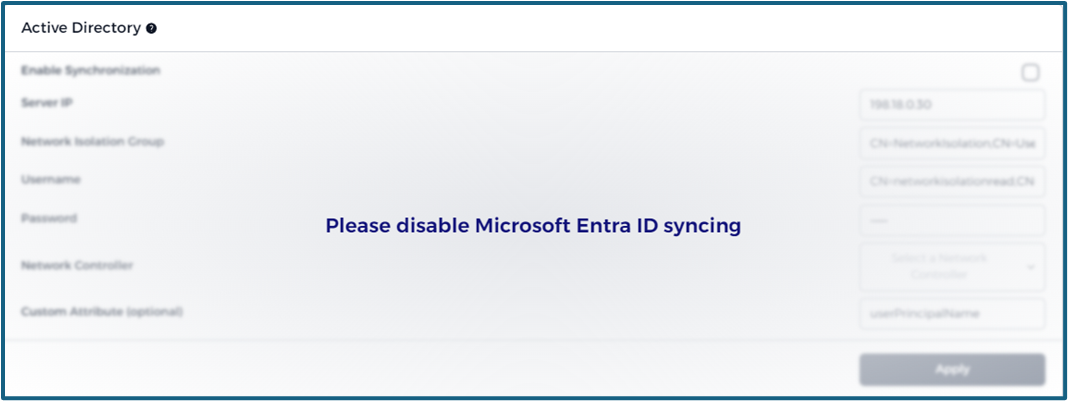
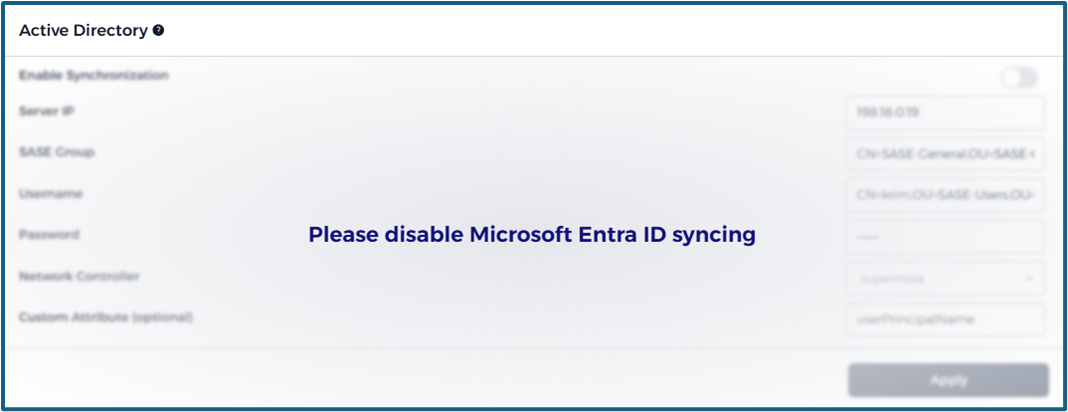
Thursday, the 24th of June 2025

diff --git a/company/users/users.md b/company/users/users.md
@@ -6,7 +6,7 @@ A user refers to an individual account within the platform. Users can have roles
 > Managing users efficiently is crucial for maintaining the security and integrity of your platform. 
 
 
-### Create Users
+### Create User
 To create a new User into the platform, click on the `+ Create new` button located at the upper right corner of the interface.
 
 > [!WARNING]
@@ -62,7 +62,7 @@ To create a new Security Consultant into the platform, follow the steps below. T
 
 ### Filter Users
 
-You can search the list of Users using the search box at the top of the page. This helps you quickly find and manage the user you're looking for.
+You can search the list of users using the search box at the top of the page. This helps you quickly find and manage the user you're looking for.
 
 - Use the search box to enter keywords and filter the user list.
 
@@ -71,6 +71,9 @@ Next to the search box, there is a filter icon ![](../../images/icons/icon_filte
 - **Property**: A dropdown menu where you choose the field to filter on.
 - **Match type**: A dropdown that allows you to select how to match the value (e.g. `equals`, `contains`, etc.).
 - **Value**: Enter or select the value to match, depending on the selected property.
+
+
+![filter_user.png](./screenshots/filter_user.png ':size=300')
 
 You can press the `+` button to add multiple filters.
 
@@ -88,15 +91,15 @@ In the user overview, several key properties are immediately visible: the user's
 
  ![overview_users.png](./screenshots/overview_users.png ':size=800')
 
- Clicking on the corresponding row of a user opens a detailed view with additional information.  
+ Clicking on the corresponding strip of a user opens a detailed view with additional information.  
 
-> [!INFO] 
-> Avoid using the action buttons at the end of the row (e.g. edit or delete).
+<!-- > [!INFO] 
+> Avoid using the action buttons at the end of the row (e.g. edit or delete). -->
 
 
 ![properties_user.png](./screenshots/properties_user.png ':size=500')
 
-### Edit Users
+### Edit User
   
  Users can be edited by clicking on the edit icon ![](../../images/icons/icon_edit.png ':size=20') in their row.
  
@@ -105,7 +108,7 @@ In the user overview, several key properties are immediately visible: the user's
 > [!WARNING]
 > The username cannot be changed. All other options are the same as when creating a user.
   
-### Delete Users
+### Delete User
 
  Users can be deleted by clicking on the delete icon ![](../../images/icons/icon_delete.png ':size=20') in their row.
 

diff --git a/company/customers/customers.md b/company/customers/customers.md
@@ -8,7 +8,7 @@ For clarity, consider a scenario where a company named *`Astral Voyage`* wants t
 
 ![list_customers.png](./screenshots/list_customers.png ':size=800')
 
-### Create Customers
+### Create Customer
 
 To incorporate a new customer into the platform, click on the `+ Create new` button located at the upper right corner of the interface.
 
@@ -27,7 +27,8 @@ Filling in the website will cause an icon to appear in front of the customer's n
 
 ### Filter Customers
 
-You can search the list of Customers using the search box at the top of the page. This helps you quickly find and manage the customer you're looking for.
+You can search the list of customers using the search box at the top of the page. This helps you quickly find and manage the customer you're looking for.
+
 
 - Use the search box to enter keywords and filter the customer list.
 
@@ -36,6 +37,8 @@ Next to the search box, there is a filter icon ![](../../images/icons/icon_filte
 - **Property**: A dropdown menu where you choose the field to filter on.
 - **Match type**: A dropdown that allows you to select how to match the value (e.g. `equals`, `contains`, etc.).
 - **Value**: Enter or select the value to match, depending on the selected property.
+
+![filter_customer.png](./screenshots/filter_customer.png ':size=300')
 
 You can press the `+` button to add multiple filters.
 
@@ -49,7 +52,7 @@ Once filters are applied:
 
 ### Customer Details
 
-To view the details of a specific customer, select their row in the table (rather than using the action buttons at the end).
+Clicking on the corresponding strip of a customer opens a detailed view with additional information.
 You get an overview of created assets:
 
 ![overview_customer.png](./screenshots/overview_customer.png ':size=800')
@@ -57,7 +60,7 @@ You get an overview of created assets:
 > [!NOTE]
 > A newly created customer has no assets to show yet.
 
-### Edit Customers
+### Edit Customer
 Customers can be edited by clicking on the edit icon ![](../../images/icons/icon_edit.png ':size=20') in their row.
 
 ![edit_customer.png](./screenshots/edit_customer.png ':size=500')
@@ -67,7 +70,7 @@ Customers can be edited by clicking on the edit icon ![](../../images/icons/icon
 
 
 
-### Delete Customers
+### Delete Customer
 
 Customers can be deleted by clicking on the delete icon ![](../../images/icons/icon_delete.png ':size=20') in their row.
 

diff --git a/company/groups/groups.md b/company/groups/groups.md
@@ -32,7 +32,7 @@ This flexible structure allows for a fine-tuned, layered approach to network man
 
 <!-- ![edit-server.png](/edit-server.png ':size=600') -->
 
-### Create Groups
+### Create Group
 
 To create a new group into the platform, click on the `+ Create new` button located at the upper right corner of the interface.
 
@@ -56,7 +56,7 @@ You can search the list of Groups using the search box at the top of the page. T
 
 ### Group Details
 
-Access the details of a specific group by selecting the corresponding row within the table (avoid clicking on the buttons at the end). This will reveal the network rules associated with the chosen group, along with the devices that fall under this group's purview.
+Access the details of a specific group by clicking on the corresponding strip within the table. This will reveal the network rules associated with the chosen group, along with the devices that fall under this group's purview.
 
 
 ![group_details.png](./screenshots/group_details.png ':size=800')
@@ -72,7 +72,7 @@ Access the details of a specific group by selecting the corresponding row within
 
 
 
-### Edit Groups
+### Edit Group
 Groups can be edited by clicking on the edit icon ![](../../images/icons/icon_edit.png ':size=20') in their row.
 
  You'll then be able to adjust the group name as needed:
@@ -80,8 +80,8 @@ Groups can be edited by clicking on the edit icon ![](../../images/icons/icon_ed
 ![edit_group.png](./screenshots/edit_group.png ':size=500')
 
 
-### Copy Groups
-Groups can be copied by clicking on the copy icon ![](../../images/icons/icon_copy.png ':size=20') in their row.
+### Duplicate Group
+Groups can be duplicated by clicking on the duplicate icon ![](../../images/icons/icon_copy.png ':size=20') in their row.
 
  You'll then be able to choose a name for the new group:
 
@@ -92,7 +92,7 @@ The new group will show the same details as the original group: firewall rules, 
 
 
 
-### Delete Groups
+### Delete Group
 Groups can be deleted by clicking on the delete icon ![](../../images/icons/icon_delete.png ':size=20') in their row.
 
 > [!WARNING]

diff --git a/gettingstarted/index.md b/gettingstarted/index.md
@@ -2,14 +2,14 @@
 
 ## Introduction
 
-Jimber SASE Platform is a total network security solution that can help you protect your network from cyber threats. By isolating your network, you can prevent unauthorized users from accessing sensitive data and applications.
+`Jimber SASE Platform` is a total network security solution that can help you protect your network from cyber threats. By isolating your network, you can prevent unauthorized users from accessing sensitive data and applications.
 
 This guide will show you how to become a member of highly secure companies worldwide using `Jimber SASE Platform`
 
 
 ## Steps
 
-1.    [![](../../images/menu/menu_customers.png ':size=25') Create Customers](./company/customers/customers)
+1.    [![](../../images/menu/menu_customers.png ':size=25')  Create Customers](./company/customers/customers)
 > [!NOTE]
 > **(This step is only for partners who want to add a customer.)**
 
@@ -23,7 +23,7 @@ This guide will show you how to become a member of highly secure companies world
 
 6. [ ![](../../images/menu/menu_niacs.png ':size=25')Create NIACs](./devices/niacs/niacs)
 
-7. [ ![](../../images/menu/menu_networkcontrollers.png ':size=25'))Create Network Controllers](./devices/networkcontrollers/networkcontrollers)![](../../images/menu/menu_networkcontrollers.png 
+7. [ ![](../../images/menu/menu_networkcontrollers.png ':size=25')Create Network Controllers](./devices/networkcontrollers/networkcontrollers)
 
 8. ![](../../images/menu/security.png ':size=30') **Configuring rules** to be found in the [SECURITY](/security.md) section of the sidebar.
 

diff --git a/company/integrations/integrations.md b/company/integrations/integrations.md
@@ -21,12 +21,14 @@ To do so, enter the IP address DNS server and click on the apply button.
 
 ![integration_ad.png](./screenshots/integration_ad.png ":size=800")
 
-<!-- > [!INFO]
-> To activate this setting, you need to disable Microsoft Entra ID syncing as indicated.
 
-![disable_entra_id.png](disable_entra_id.png ":size=800") -->
+To activate **Enable Synchronization** in Active Directory, you have to disable Microsoft Entra ID syncing as indicated.
+
+![disable_entra_id.png](./screenshots/disable_entra_id.png ":size=800")
 
 ## Microsoft Entra ID
+
+
 
 Synchronize your user data seamlessly from Azure Entra ID to the `Jimber SASE Platform`. This ensures that user information remains consistent across both platforms, providing ease of user management.
 
@@ -34,6 +36,10 @@ Synchronize your user data seamlessly from Azure Entra ID to the `Jimber SASE Pl
 > Detailed instructions are available in the Advanced section [here](/./advanced/entraid/entraid.md).
 
 ![micro_entra_id.png](./screenshots/micro_entra_id.png ":size=800")
+
+To activate **Enable Synchronization** in Microsoft Entra ID, you have to disable Active Directory syncing as indicated.
+
+![disable_ad_sync.png](./screenshots/disable_ad_sync.png ":size=800")
 
 #### **Steps to enable synchronization**:
 

diff --git a/company/domains/domains.md b/company/domains/domains.md
@@ -9,7 +9,7 @@ For example, to create a user like 'k.janeway@avoy.com', you must first register
 
 ![domains.png](./screenshots/domains.png  ':size=800')
 
-### Create Domains
+### Create Domain
 
 To establish a new domain, simply click on the `+ Create new` button located at the upper right corner of the interface.
 
@@ -24,7 +24,7 @@ You can search the list of Domains using the search box at the top of the page. 
 > [!INFO]
 > You can refresh the list of domains by pressing the refresh icon ![](../../images/icons/icon_reload.png ':size=20') at the top of the page.
 
-### Delete Domains
+### Delete Domain
 
 Domains can be deleted by clicking on the delete icon ![](../../images/icons/icon_delete.png ':size=20') in their row.
 
